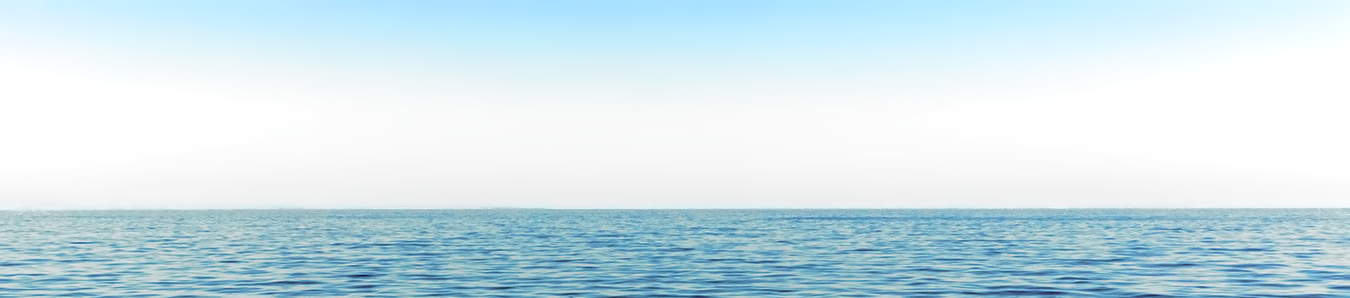
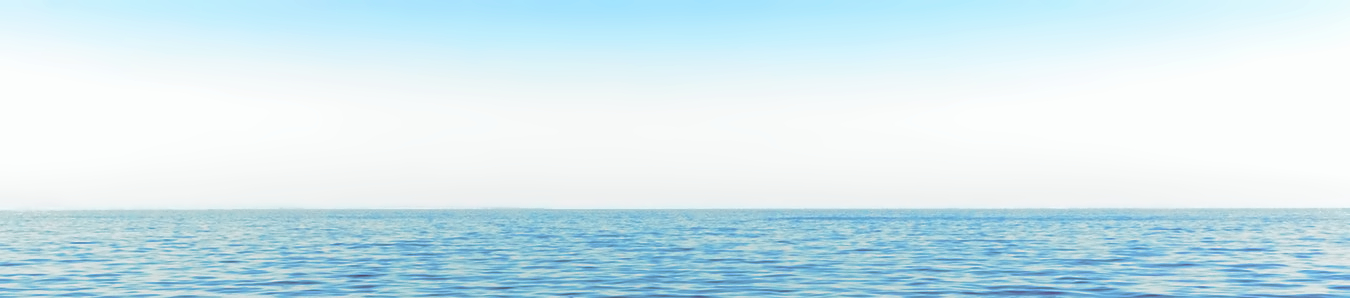
add portfolio info, links

diff --git a/index.html b/index.html
@@ -82,90 +82,91 @@
 				<h2 class="center heading_title">Projects</h2>
 			</div>
 			<div class="card-content grey lighten-4">
+
 				<div class="row">
 					<div class="col s12 m6">
 						<div class="card blue accent-2 hoverable">
 							<div class="card-content white-text">
-								<span class="card-title">Card Title</span>
-								<p>I am a very simple card. I am good at containing small bits of information.
-									I am convenient because I require little markup to use effectively.</p>
+								<span class="card-title">Hangman</span>
+								<p>
+									Celebrate historical improvements in our justice system with this original take on the schoolroom classic.
+									The theme? Cars, Cities, and Food.
+								</p>
 							</div>
 							<div class="card-action">
-								<a href="#" class="amber-text darken-2">This is a link</a>
-								<a href="#" class="amber-text darken-2">This is a link</a>
+								<a href="https://kkoeckritz.github.io/Word-Guess-Game/" class="amber-text darken-2">Deployed <i class="material-icons tiny">call_made</i></a>
+								<a href="https://github.com/kkoeckritz/Word-Guess-Game/" class="amber-text darken-2">GitHub <i class="material-icons tiny">code</i></a>
 							</div>
 						</div>
 					</div>
 					<div class="col s12 m6">
 						<div class="card blue accent-2 hoverable">
 							<div class="card-content white-text">
-								<span class="card-title">Card Title</span>
-								<p>I am a very simple card. I am good at containing small bits of information.
-									I am convenient because I require little markup to use effectively.</p>
+								<span class="card-title">It's Always War...</span>
+								<p>
+									The Gang Goes to War. Choose your (anti-)hero and defeat the others in this all-out brawl that 
+									toes the line in the realm of fair use.
+								</p>
 							</div>
 							<div class="card-action">
-								<a href="#" class="amber-text darken-2">This is a link</a>
-								<a href="#" class="amber-text darken-2">This is a link</a>
+								<a href="https://kkoeckritz.github.io/unit-4-game/" class="amber-text darken-2">Deployed <i class="material-icons tiny">call_made</i></a>
+								<a href="https://github.com/kkoeckritz/unit-4-game/" class="amber-text darken-2">GitHub <i class="material-icons tiny">code</i></a>
 							</div>
 						</div>
 					</div>
 				</div>
+
 				<div class="row">
 					<div class="col s12 m6">
 						<div class="card blue accent-2 hoverable">
 							<div class="card-content white-text">
-								<span class="card-title">Card Title</span>
-								<p>I am a very simple card. I am good at containing small bits of information.
-									I am convenient because I require little markup to use effectively.</p>
+								<span class="card-title">"Help, I'm Lost."</span>
+								<p>
+									Ugh, tourists! Quit reminding me that I can't afford to travel! These hapless folks need some guidance 
+									that only you can give them.
+								</p>
 							</div>
 							<div class="card-action">
-								<a href="#" class="amber-text darken-2">This is a link</a>
-								<a href="#" class="amber-text darken-2">This is a link</a>
+								<a href="https://kkoeckritz.github.io/TriviaGame/" class="amber-text darken-2">Deployed <i class="material-icons tiny">call_made</i></a>
+								<a href="https://github.com/kkoeckritz/TriviaGame/" class="amber-text darken-2">GitHub <i class="material-icons tiny">code</i></a>
 							</div>
 						</div>
 					</div>
 					<div class="col s12 m6">
 						<div class="card blue accent-2 hoverable">
 							<div class="card-content white-text">
-								<span class="card-title">Card Title</span>
-								<p>I am a very simple card. I am good at containing small bits of information.
-									I am convenient because I require little markup to use effectively.</p>
+								<span class="card-title">GifTastic</span>
+								<p>
+									In this hectic world, you and I don't have time for separate trips. We need quality gifs and helpful 
+									information, and GifTastic offers both at once.
+								</p>
 							</div>
 							<div class="card-action">
-								<a href="#" class="amber-text darken-2">This is a link</a>
-								<a href="#" class="amber-text darken-2">This is a link</a>
+								<a href="https://kkoeckritz.github.io/GifTasti/c" class="amber-text darken-2">Deployed <i class="material-icons tiny">call_made</i></a>
+								<a href="https://github.com/kkoeckritz/GifTastic/" class="amber-text darken-2">GitHub <i class="material-icons tiny">code</i></a>
 							</div>
 						</div>
 					</div>
 				</div>
+
 				<div class="row">
 					<div class="col s12 m6">
 						<div class="card blue accent-2 hoverable">
 							<div class="card-content white-text">
-								<span class="card-title">Card Title</span>
-								<p>I am a very simple card. I am good at containing small bits of information.
-									I am convenient because I require little markup to use effectively.</p>
+								<span class="card-title">RPS: PVP</span>
+								<p>
+									The worlds simplest two-player game is back, and it comes with built-in chat. Welcome to the future. 
+									Please watch your head.
+								</p>
 							</div>
 							<div class="card-action">
-								<a href="#" class="amber-text darken-2">This is a link</a>
-								<a href="#" class="amber-text darken-2">This is a link</a>
-							</div>
-						</div>
-					</div>
-					<div class="col s12 m6">
-						<div class="card blue accent-2 hoverable">
-							<div class="card-content white-text">
-								<span class="card-title">Card Title</span>
-								<p>I am a very simple card. I am good at containing small bits of information.
-									I am convenient because I require little markup to use effectively.</p>
-							</div>
-							<div class="card-action">
-								<a href="#" class="amber-text darken-2">This is a link</a>
-								<a href="#" class="amber-text darken-2">This is a link</a>
+								<a href="https://kkoeckritz.github.io/RPS-Multiplayer/" class="amber-text darken-2">Deployed <i class="material-icons tiny">call_made</i></a>
+								<a href="https://github.com/kkoeckritz/RPS-Multiplayer/" class="amber-text darken-2">GitHub <i class="material-icons tiny">code</i></a>
 							</div>
 						</div>
 					</div>
 				</div>
+				
 			</div>
 		</div>
 	</div>

diff --git a/assets/css/style.css b/assets/css/style.css
@@ -71,7 +71,7 @@ body {
 
 .bg_scenic {
 	background-image: url(../images/ocean_crop.jpg);
-	background-position: 0 -104px;
+	background-position: 0 -70px;
 }
 
 .heading_title {
